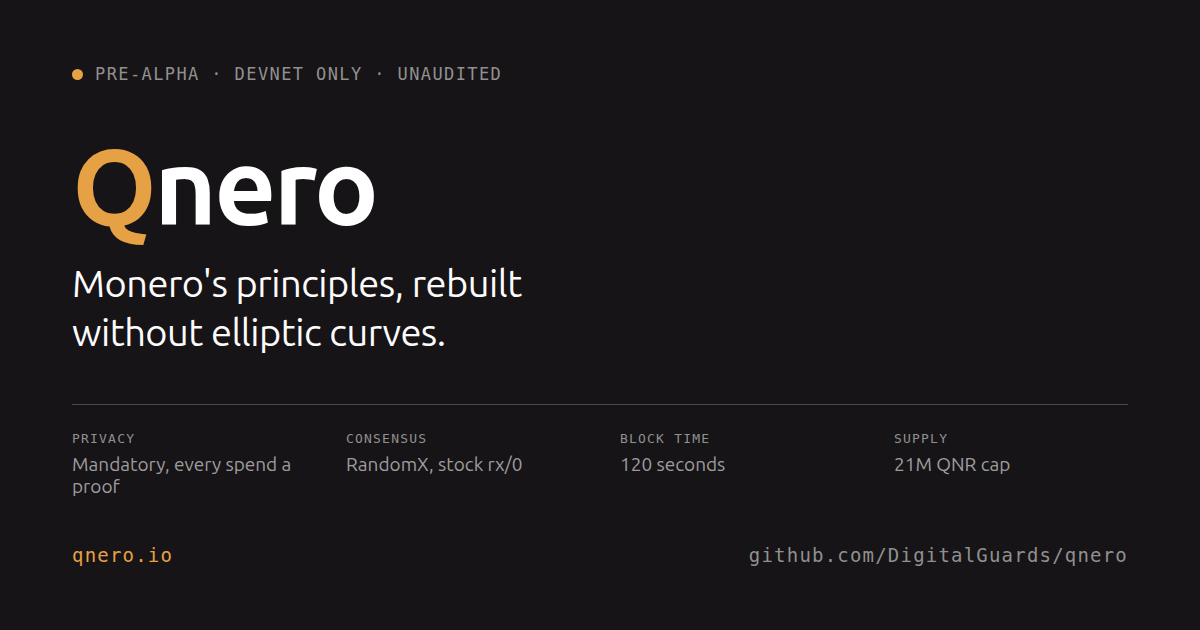
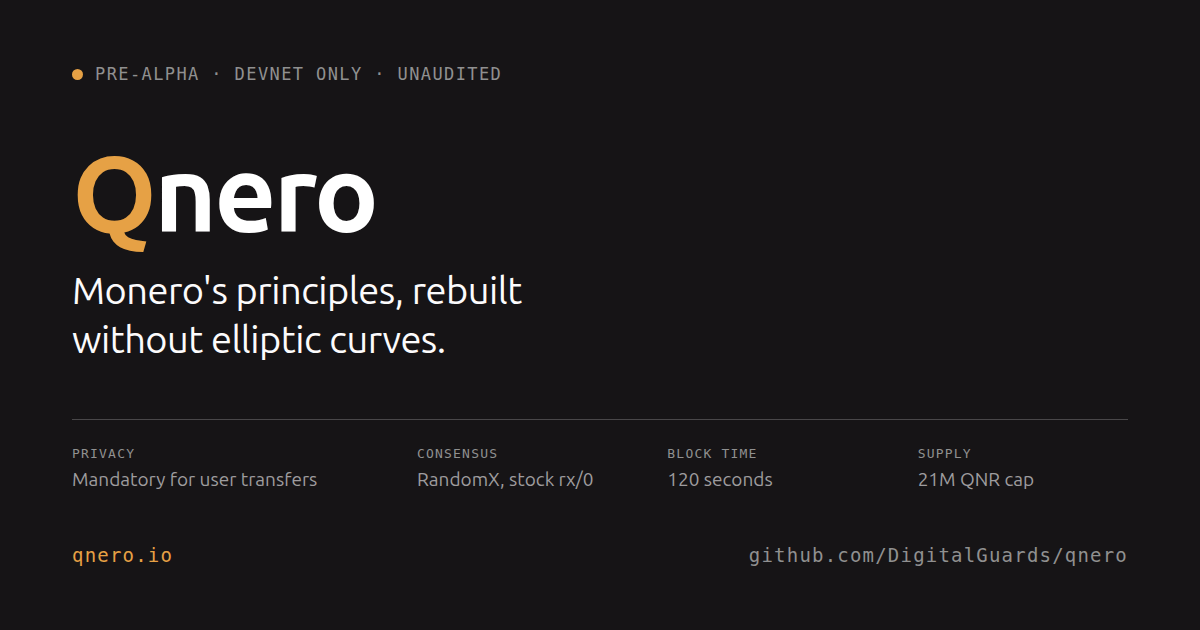
fix(site): the notice, the error page's canonical, and the card's first stat
The NOTICE still credited a footer credit that an earlier commit replaced with a
link, so the file the BSD attribution rests on described a page that no longer
exists. The provenance block lives on the about page and every footer links it.

404.html declared a canonical and an og:url pointing at /404.html, which the
README's own nginx block makes permanently unreachable. An error page has no
canonical address, so both are gone and the page is explicitly noindex.

The open-graph card stated Privacy as "Mandatory, every spend a proof", which
disagreed with the home page's own at-a-glance row, and wrapped to a one-word
orphan under the rule. It carries the page's wording, on one line, in the one
image that represents all eight pages.

Claude-Session: https://claude.ai/code/session_01Rvo748vDoVV5Avc1rzjAzo

diff --git a/site/tools/og-template.html b/site/tools/og-template.html
@@ -75,6 +75,12 @@
       .facts > div {
         flex: 1 1 0;
       }
+      /* The privacy value is the longest of the four and is the one that has to
+         match the at-a-glance row on the home page word for word, so its column
+         takes the room it needs and the other three still set one line each. */
+      .facts > div:first-child {
+        flex: 1.45 1 0;
+      }
       .facts b {
         display: block;
         font-family: ui-monospace, 'DejaVu Sans Mono', monospace;
@@ -109,7 +115,7 @@
       <p>Monero's principles, rebuilt without elliptic curves.</p>
     </div>
     <div class="facts">
-      <div><b>Privacy</b>Mandatory, every spend a proof</div>
+      <div><b>Privacy</b>Mandatory for user transfers</div>
       <div><b>Consensus</b>RandomX, stock rx/0</div>
       <div><b>Block time</b>120 seconds</div>
       <div><b>Supply</b>21M QNR cap</div>

diff --git a/site/404.html b/site/404.html
@@ -5,12 +5,11 @@
     <meta name="viewport" content="width=device-width, initial-scale=1">
     <title>No page here</title>
     <meta name="description" content="The address does not resolve to anything this site serves.">
-    <link rel="canonical" href="https://qnero.io/404.html">
+    <meta name="robots" content="noindex">
     <meta property="og:type" content="website">
     <meta property="og:site_name" content="Qnero">
     <meta property="og:title" content="No page here">
     <meta property="og:description" content="The address does not resolve to anything this site serves.">
-    <meta property="og:url" content="https://qnero.io/404.html">
     <meta property="og:image" content="https://qnero.io/img/og.png">
     <meta property="og:image:width" content="1200">
     <meta property="og:image:height" content="630">
